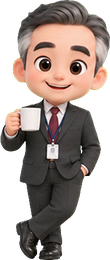
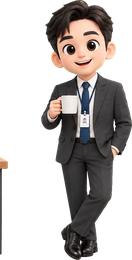
Character voice conversations (staged chat, labeled), calm BGM, separate voice/BGM on-off, younger CEO character

diff --git a/index.html b/index.html
@@ -2739,6 +2739,14 @@
   .room.working .worker { animation: none; }
   .room.working .avatar { animation: none; }
   .room.working .avatar { filter: drop-shadow(0 3px 3px rgba(0,0,0,.45)); }
+
+  /* 연출 대화 자막 띠 + 말하는 캐릭터 표시 */
+  #voice-band { position: fixed; left: 50%; bottom: 10px; transform: translateX(-50%); z-index: 60; max-width: min(92vw, 560px); width: max-content; background: rgba(12,16,32,.92); border: 1px solid rgba(250,204,21,.55); border-radius: 12px; padding: 5px 12px; box-shadow: 0 4px 14px rgba(0,0,0,.5); text-align: center; pointer-events: none; }
+  #voice-band[hidden] { display: none; }
+  #voice-band .vb-tag { display: block; font-size: 9px; font-weight: 800; color: #fde68a; margin-bottom: 1px; }
+  #voice-band .vb-line { display: block; font-size: 12px; font-weight: 700; color: #fff; line-height: 1.35; }
+  .room.voice-talk .avatar { animation: voiceBounce .45s ease-in-out infinite; }
+  @keyframes voiceBounce { 0%,100% { transform: translateY(0); } 50% { transform: translateY(-3px); } }
 </style>
 </head>
 <body>
@@ -2804,6 +2812,8 @@
     <div class="top-btns">
       <button class="btn btn-red" onclick="testAlert()">🔵 확인요청 테스트</button>
       <button class="btn btn-snd" id="snd-btn" onclick="toggleSound()" aria-pressed="false">🔇 전체 소리</button>
+      <button class="btn btn-snd" id="voice-btn" onclick="toggleVoice()" aria-pressed="false">🔇 말소리 OFF</button>
+      <button class="btn btn-snd" id="bgm-btn" onclick="toggleBgm()" aria-pressed="false">🔇 BGM OFF</button>
       <button class="btn" onclick="clearAll()">✅ 전체 복구</button>
     </div>
   </div>
@@ -6112,6 +6122,253 @@ scheduleLobby(1600);
 roomTalkLoop();
 soloLoop();
 startStaffLife();
+
+/* ================= 말소리(TTS) + 잔잔한 BGM (각각 켜기/끄기) =================
+   캐릭터 말풍선 글을 삐삑 소리 대신 실제 음성(한국어)으로 읽고, 외부 파일 없이 잔잔한 BGM을 합성한다.
+   전체 소리(마스터)·층별 소리 핀은 그대로 유지: 마스터가 꺼지면 말소리·BGM도 꺼진다. */
+(function () {
+  const K_VOICE = "liveoffice_voice", K_BGM = "liveoffice_bgm";
+  function pref(k) { try { return localStorage.getItem(k) !== "0"; } catch (e) { return true; } }
+  function save(k, v) { try { localStorage.setItem(k, v ? "1" : "0"); } catch (e) {} }
+  const ST = { voice: pref(K_VOICE), bgm: pref(K_BGM) };
+
+  /* 캐릭터 삐삑 소리(말풍선 채팅음, 키보드 클릭음)는 말소리로 대체 */
+  SFX.chat = function () {};
+  SFX.click = function () {};
+
+  /* ---------- 말소리: 캐릭터끼리 나누는 연출 대화(업무 논의 + 잡담) ----------
+     자막을 읽는 게 아니라, 캐릭터 둘이 한국어로 주고받는 짧은 대화를 음성으로 들려준다.
+     대사는 모두 일반적인 연출용이며 실제 업무 보고·실적이 아니다(숫자·성과·프로젝트 이름 없음).
+     대화하는 동안 화면 아래에 "연출 대화" 자막 띠를 띄워 실제 보고와 구분한다. */
+  const hasTTS = ("speechSynthesis" in window) && ("SpeechSynthesisUtterance" in window);
+  let koVoices = [];
+  function loadVoices() {
+    if (!hasTTS) return;
+    try { koVoices = speechSynthesis.getVoices().filter(v => /^ko/i.test(v.lang)); } catch (e) {}
+  }
+  if (hasTTS) { loadVoices(); try { speechSynthesis.addEventListener("voiceschanged", loadVoices); } catch (e) {} }
+  function hash(s) { let h = 0; for (let i = 0; i < s.length; i++) h = (h * 31 + s.charCodeAt(i)) >>> 0; return h; }
+  function voiceLive() { return SFX.enabled && ST.voice && hasTTS; }
+
+  const WORK_TALK = [
+    [["이번 주 우선순위, 같이 한번 정리해 볼까요?", "좋아요. 급한 것부터 순서대로 봐요."],
+     ["이 부분은 어떻게 하는 게 좋을까요?", "일단 의견부터 모아 보고 같이 정해요."],
+     ["그럼 그렇게 진행해 봐요.", "네, 중간에 막히면 바로 말씀드릴게요."]],
+    [["혹시 도와드릴 일 있어요?", "고마워요. 확인할 게 하나 있는데 같이 봐 줄래요?"],
+     ["물론이죠. 같이 보면 금방 끝나요.", "역시 팀워크가 최고예요."]],
+    [["다음 단계는 어떻게 하면 좋을까요?", "차근차근 하나씩 점검하면서 가요."],
+     ["좋아요. 놓치는 게 없게 한 번 더 확인해요.", "네, 꼼꼼하게 챙겨 볼게요."]],
+    [["오늘 회의 전에 생각 좀 맞춰 볼까요?", "좋죠. 핵심만 짧게 얘기해 봐요."],
+     ["저는 일단 방향을 먼저 잡고 싶어요.", "저도요. 그다음에 세부를 채워요."]]
+  ];
+  const CHAT_TALK = [
+    [["커피 한잔 할래요?", "좋아요! 오늘은 따뜻한 걸로 마시고 싶네요."],
+     ["여기 커피 향이 참 좋죠?", "맞아요. 잠깐 쉬니까 기분이 좋아지네요."]],
+    [["오늘 점심 뭐 먹을까요?", "저는 따끈한 국물 요리가 당기는데요."],
+     ["좋아요, 그럼 같이 가요!", "맛있는 데 찾아봐야겠어요."]],
+    [["창밖 좀 보세요, 하늘이 참 맑아요.", "정말요. 잠깐 바람 쐬고 싶네요."],
+     ["주말에는 뭐 하세요?", "푹 쉬면서 산책이나 하려고요."]],
+    [["요즘 어때요, 피곤하지 않아요?", "조금요. 그래도 같이 일하니까 힘이 나요."],
+     ["우리 팀 분위기 좋은 것 같아요.", "맞아요. 다들 서로 도와주니까요."]]
+  ];
+  let speaking = false, timer2 = null;
+  function roomList() { return (typeof rooms !== "undefined" && Array.isArray(rooms)) ? rooms : []; }
+  function nameOf(id) {
+    const n = document.querySelector("#room-" + id + " .nametag");
+    return n ? n.textContent.replace(/[\u{1F000}-\u{1FFFF}\u2600-\u27BF\uFE0F]/gu, "").trim() : id;
+  }
+  function floorOk(r) { return !r.floor || FLOOR_SOUND[String(r.floor).toLowerCase()] !== false; }
+  function bandEl() {
+    let el = document.getElementById("voice-band");
+    if (!el) {
+      el = document.createElement("div");
+      el.id = "voice-band"; el.hidden = true;
+      el.innerHTML = '<span class="vb-tag">🎭 연출 대화 · 실제 업무 보고 아님</span><span class="vb-line"></span>';
+      document.body.appendChild(el);
+    }
+    return el;
+  }
+  function showLine(who, line) {
+    const el = bandEl();
+    el.querySelector(".vb-line").textContent = who + ": " + line;
+    el.hidden = false;
+  }
+  function hideBand() { const el = document.getElementById("voice-band"); if (el) el.hidden = true; }
+  function mark(id, on) {
+    const el = document.getElementById("room-" + id);
+    if (el) el.classList.toggle("voice-talk", on);
+  }
+  function say(text, roomId) {
+    return new Promise(res => {
+      if (!voiceLive()) return res(false);
+      let done = false;
+      const fin = () => { if (!done) { done = true; res(true); } };
+      try {
+        const u = new SpeechSynthesisUtterance(text);
+        u.lang = "ko-KR";
+        const h = hash(roomId);
+        if (koVoices.length) u.voice = koVoices[h % koVoices.length];
+        u.pitch = 0.9 + (h % 7) * 0.1;      // 캐릭터마다 목소리 높낮이가 다르다
+        u.rate = 1.0;
+        u.volume = 0.9;
+        u.onend = fin; u.onerror = fin;
+        speechSynthesis.speak(u);
+        setTimeout(fin, 9000 + text.length * 120);
+      } catch (e) { fin(); }
+    });
+  }
+  async function scene() {
+    if (speaking || !voiceLive() || document.hidden) return;
+    const list = roomList().filter(r => floorOk(r));
+    if (list.length < 2) return;
+    speaking = true;
+    try {
+      const a = list[Math.floor(Math.random() * list.length)];
+      const pool = list.filter(r => r.id !== a.id);
+      const same = pool.filter(r => r.floor === a.floor);
+      const cand = (same.length && Math.random() < 0.7) ? same : pool;
+      const b = cand[Math.floor(Math.random() * cand.length)];
+      const ea = document.getElementById("room-" + a.id), eb = document.getElementById("room-" + b.id);
+      const anyWorking = (ea && ea.classList.contains("working")) || (eb && eb.classList.contains("working"));
+      const set = anyWorking && Math.random() < 0.7 ? WORK_TALK : CHAT_TALK;
+      const convo = set[Math.floor(Math.random() * set.length)];
+      const names = [nameOf(a.id), nameOf(b.id)], ids = [a.id, b.id];
+      for (let i = 0; i < convo.length; i++) {
+        for (let k = 0; k < 2; k++) {
+          if (!voiceLive()) throw 0;
+          showLine(names[k], convo[i][k]);
+          mark(ids[k], true);
+          const ok = await say(convo[i][k], ids[k]);
+          mark(ids[k], false);
+          if (!ok) throw 0;
+        }
+      }
+    } catch (e) {}
+    mark(roomList().map(r => r.id)[0], false);
+    document.querySelectorAll(".voice-talk").forEach(el => el.classList.remove("voice-talk"));
+    hideBand();
+    speaking = false;
+  }
+  function stopVoice() {
+    try { speechSynthesis.cancel(); } catch (e) {}
+    document.querySelectorAll(".voice-talk").forEach(el => el.classList.remove("voice-talk"));
+    hideBand();
+  }
+  // 15~30초에 한 번씩 새 대화
+  function loopScene() {
+    timer2 = setTimeout(async () => { await scene(); loopScene(); }, 15000 + Math.random() * 15000);
+  }
+  loopScene();
+  window.__voiceScene = scene;   // 확인용
+
+  /* ---------- 잔잔한 BGM (Web Audio 합성, 외부 파일 없음) ---------- */
+  let bctx = null, bmaster = null, timer = null, started = false;
+  const CHORDS = [
+    [130.81, 164.81, 196.00, 246.94],   // Cmaj7
+    [110.00, 130.81, 164.81, 196.00],   // Am7
+    [174.61, 220.00, 261.63, 329.63],   // Fmaj7
+    [146.83, 196.00, 246.94, 293.66]    // G6
+  ];
+  const BELLS = [523.25, 587.33, 659.25, 783.99, 880.00];
+  let ci = 0;
+  function bgmEnsure() {
+    const AC = window.AudioContext || window.webkitAudioContext;
+    if (!AC) return false;
+    if (!bctx) {
+      try {
+        bctx = new AC();
+        bmaster = bctx.createGain(); bmaster.gain.value = 0.0001;
+        const lp = bctx.createBiquadFilter(); lp.type = "lowpass"; lp.frequency.value = 1400;
+        const dl = bctx.createDelay(1.0); dl.delayTime.value = 0.42;
+        const fb = bctx.createGain(); fb.gain.value = 0.33;
+        const wet = bctx.createGain(); wet.gain.value = 0.45;
+        bmaster.connect(lp); lp.connect(bctx.destination);
+        lp.connect(dl); dl.connect(fb); fb.connect(dl); dl.connect(wet); wet.connect(bctx.destination);
+      } catch (e) { bctx = null; return false; }
+    }
+    if (bctx.state === "suspended") { try { bctx.resume(); } catch (e) {} }
+    return true;
+  }
+  function note(freq, t0, dur, gain, type, attack) {
+    const o = bctx.createOscillator(), g = bctx.createGain();
+    o.type = type; o.frequency.value = freq;
+    o.detune.value = (Math.random() - 0.5) * 8;
+    g.gain.setValueAtTime(0.0001, t0);
+    g.gain.linearRampToValueAtTime(gain, t0 + attack);
+    g.gain.exponentialRampToValueAtTime(0.0001, t0 + dur);
+    o.connect(g); g.connect(bmaster);
+    o.start(t0); o.stop(t0 + dur + 0.1);
+  }
+  function bar() {
+    if (!bctx || bctx.state !== "running") return;
+    const t0 = bctx.currentTime + 0.1, len = 8;
+    CHORDS[ci % CHORDS.length].forEach((f, i) => {
+      note(f, t0 + i * 0.12, len + 2.5, 0.05, "sine", 2.6);
+      if (i < 2) note(f * 2, t0 + i * 0.12, len + 2, 0.012, "triangle", 3);
+    });
+    const n = 2 + Math.floor(Math.random() * 2);
+    for (let k = 0; k < n; k++) {
+      const f = BELLS[Math.floor(Math.random() * BELLS.length)];
+      note(f, t0 + 1 + Math.random() * (len - 2), 2.8, 0.022, "sine", 0.02);
+    }
+    ci++;
+  }
+  function bgmLive() { return SFX.enabled && ST.bgm; }
+  function bgmSync() {
+    if (bgmLive() && !document.hidden) {
+      if (!bgmEnsure()) return;
+      bmaster.gain.cancelScheduledValues(bctx.currentTime);
+      bmaster.gain.setTargetAtTime(0.9, bctx.currentTime, 1.5);   // 부드럽게 페이드 인
+      if (!timer) { bar(); timer = setInterval(bar, 8000); }
+    } else if (bctx) {
+      if (timer) { clearInterval(timer); timer = null; }
+      bmaster.gain.cancelScheduledValues(bctx.currentTime);
+      bmaster.gain.setTargetAtTime(0.0001, bctx.currentTime, 0.25);   // 페이드 아웃 후 정지
+      setTimeout(() => { if (!bgmLive() || document.hidden) { try { bctx.suspend(); } catch (e) {} } }, 900);
+    }
+  }
+  document.addEventListener("visibilitychange", bgmSync);
+  // 저장된 "전체 소리 ON" 상태로 열렸을 때: 첫 탭 뒤에 BGM 시작
+  const kick = () => { document.removeEventListener("click", kick, true); document.removeEventListener("touchend", kick, true); setTimeout(bgmSync, 50); };
+  document.addEventListener("click", kick, true); document.addEventListener("touchend", kick, true);
+
+  /* ---------- 버튼 ---------- */
+  function paintMine() {
+    const v = document.getElementById("voice-btn"), b = document.getElementById("bgm-btn");
+    const vl = voiceLive(), bl = bgmLive();
+    if (v) { v.textContent = (vl ? "🗣 말소리 ON" : "🔇 말소리 OFF"); v.classList.toggle("on", vl); v.setAttribute("aria-pressed", vl ? "true" : "false"); }
+    if (b) { b.textContent = (bl ? "🎵 BGM ON" : "🔇 BGM OFF"); b.classList.toggle("on", bl); b.setAttribute("aria-pressed", bl ? "true" : "false"); }
+  }
+  function masterOn() {   // 마스터가 꺼져 있으면 함께 켠다(층 핀과 같은 방식)
+    if (SFX.enabled) return true;
+    Object.keys(FLOOR_SOUND).forEach(k => { FLOOR_SOUND[k] = true; });
+    if (!SFX.unlock()) { Object.keys(FLOOR_SOUND).forEach(k => { FLOOR_SOUND[k] = false; }); return false; }
+    return true;
+  }
+  let tapAt = 0;
+  function once() { const n = Date.now(); if (n - tapAt < 320) return false; tapAt = n; return true; }
+  window.toggleVoice = function () {
+    if (!once()) return;
+    if (!SFX.enabled) { ST.voice = true; save(K_VOICE, true); masterOn(); setTimeout(() => { if (!speaking) scene(); }, 400); }
+    else { ST.voice = !ST.voice; save(K_VOICE, ST.voice); if (!ST.voice) stopVoice(); else setTimeout(() => { if (!speaking) scene(); }, 400); }
+    paintSoundUI(); bgmSync();
+  };
+  window.toggleBgm = function () {
+    if (!once()) return;
+    if (!SFX.enabled) { ST.bgm = true; save(K_BGM, true); masterOn(); }
+    else { ST.bgm = !ST.bgm; save(K_BGM, ST.bgm); }
+    paintSoundUI(); bgmSync();
+  };
+  // 기존 전체 소리/층 핀 동작에 말소리·BGM 상태를 연결
+  const _paint = window.paintSoundUI;
+  window.paintSoundUI = function () { _paint(); paintMine(); };
+  const _tm = window.toggleSound;
+  window.toggleSound = function () { _tm(); if (!SFX.enabled) stopVoice(); bgmSync(); paintMine(); };
+  const _tf = window.toggleFloorSound;
+  window.toggleFloorSound = function (f) { _tf(f); bgmSync(); paintMine(); };
+  paintMine();
+})();
+
 </script>
 </body>
  </html>
